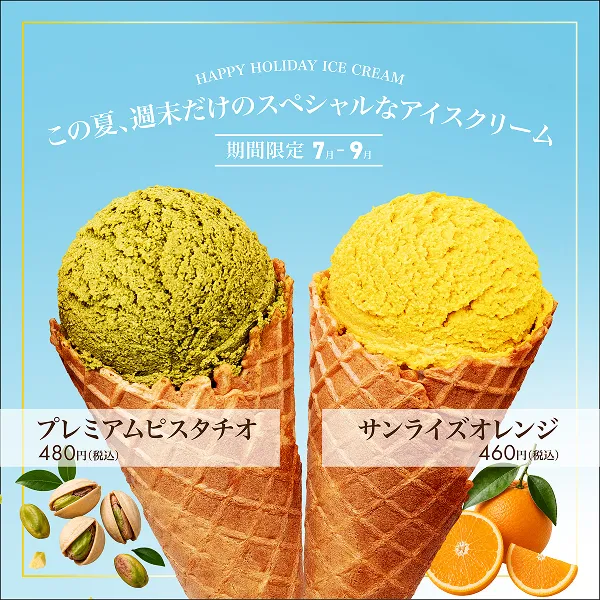
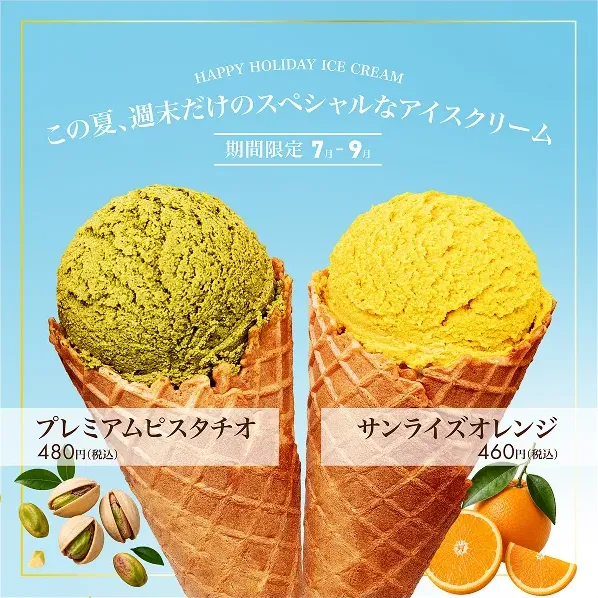
実機確認での修正：スマホの表示崩れ・画像の影・ボタンの色を調整
iPhone 14 Proの実機で確認し、見つかった問題を修正。

■ スマホでの表示崩れ
- 「私について」ページで、1〜2文字だけ行末に落ちていた改行3か所を、
  スマホでは無効化（パソコンの改行位置は変更なし）
    ・ヒーロー「結婚後は医療事務として」のあと
    ・01「子どもが生まれてから身についた段取り力は、」のあと
    ・02「どうしてもわからないときは、先生に質問し、」のあと
- できることセクションのカードで、本文が3〜4行に折り返していた問題を解消
    ピンクの内側余白 20px→10px、カードの内側余白 12px→8px
    ※768px以下のスマホのみ。タブレット以上は変更なし

■ ドロップシャドウの追加
- できることの4枚のカードに追加（X1 Y1 ぼかし4 黒10%）
- 作品詳細ページの画像すべてに追加（X0 Y4 ぼかし4 黒25%）
    ・work-01〜03 は box-shadow
    ・work-04 は切り抜き画像のため drop-shadow で輪郭に沿わせる
    ・work-05 は画像に焼き込み済みのため CSS では指定なし

■ ボタンの色を統一
- 「送信する」「TOPへ戻る」を #E94F93 → #F82581 に変更
- ホバー時を #F82581 → #F891BE に変更
    ヘッダーの「採用ご担当者様へ」と同じ色・同じ動きに揃えた
    （従来は送信ボタンだけホバーで濃くなり、動きが逆だった）

■ 画像の修正
- アイスクリームバナーの画像に入っていた1pxの黒い線を削除（600→598px）
    ※Illustratorの元データには黒い図形が残っているため、要対応

diff --git a/css/style.css b/css/style.css
@@ -316,6 +316,7 @@ html{
     background-color: #ffffff;
     border-left: 8px solid #F4C0CD;
     border-radius: 6px;
+    box-shadow: 1px 1px 4px rgba(0, 0, 0, 0.1);
     padding: 23px 23px 0;
     text-align: left;
 }
@@ -1147,6 +1148,16 @@ Aboutページ
     margin: 0 auto;
     aspect-ratio: 4 / 3;
     object-fit: contain;
+    box-shadow: 0 4px 4px rgba(0, 0, 0, 0.25);
+}
+/* 切り抜き画像は絵の輪郭に沿って影を落とす（四角い影にならないように） */
+.detail-figure-wide img{
+    box-shadow: none;
+    filter: drop-shadow(0 4px 4px rgba(0, 0, 0, 0.25));
+}
+/* work-05は画像そのものに影が焼き込まれているため、CSSでは付けない */
+.detail-figure-work05 img{
+    box-shadow: none;
 }
 /* 2案を並べて見せる（work-03）。下端を揃える */
 .detail-figure-pair{
@@ -1407,7 +1418,7 @@ Aboutページ
     width: 200px;
     margin: 28px auto 0;
     padding: 13px;
-    background-color: #E94F93;
+    background-color: #F82581;
     border: none;
     border-radius: 4px;
     font-family: inherit;
@@ -1419,7 +1430,7 @@ Aboutページ
     transition: 0.3s;
 }
 .form-submit:hover{
-    background-color: #F82581;
+    background-color: #F891BE;
 }
 
 /* ---------- プライバシーポリシー ---------- */
@@ -1477,7 +1488,7 @@ Aboutページ
     width: 200px;
     margin: 32px auto 0;
     padding: 13px;
-    background-color: #E94F93;
+    background-color: #F82581;
     border-radius: 4px;
     text-align: center;
     font-size: 14px;
@@ -1487,7 +1498,7 @@ Aboutページ
     transition: 0.3s;
 }
 .sent-back:hover{
-    background-color: #F82581;
+    background-color: #F891BE;
 }
 
 /* ==========================================================
@@ -1929,8 +1940,12 @@ Aboutページ
     .skill-list{
         margin-top: 32px;
     }
+    /* スマホでは文字が入りきらないため、ピンクの内側とカードの余白を詰める */
+    .skill-inner{
+        padding: 32px 10px;
+    }
     .skill-card{
-        padding: 16px 12px 0;
+        padding: 16px 8px 0;
     }
     .skill-name{
         font-size: 15px;

diff --git a/about.html b/about.html
@@ -101,7 +101,7 @@
         <p class="about-lead">迷わせないために、整理する。</p>
         <p class="about-hero-text">
           関西の大学で法律を学び、<br class="br-md" />卒業後はサントリーグループの外食事業会社へ。<br />
-          その後、住宅メーカーでの営業事務、結婚後は医療事務として<br />
+          その後、住宅メーカーでの営業事務、結婚後は医療事務として<br class="br-pc" />
           病院の窓口業務に携わりました。
         </p>
         <p class="about-hero-text">
@@ -132,7 +132,7 @@
             子育て中の私にとって、自宅でできることは必須の条件でした。<br />
             けれど、それは「妥協」ではありません。<br />
             限られた時間の中で何を優先するか——<br />
-            子どもが生まれてから身についた段取り力は、<br />
+            子どもが生まれてから身についた段取り力は、<br class="br-pc" />
             今、制作の進め方そのものに生きています。
           </p>
         </div>
@@ -159,7 +159,7 @@
             その繰り返しに、何度も手が止まりました。<br />
             独学を経て、思い切ってWebデザインスクールへ入会。<br />
             やはり、わからないことは山ほどありました。<br />
-            どうしてもわからないときは、先生に質問し、<br />
+            どうしてもわからないときは、先生に質問し、<br class="br-pc" />
             同期の作品を見て、こういうことかと納得する。<br />
             そうやって、一つずつ前に進んできました。
           </p>
